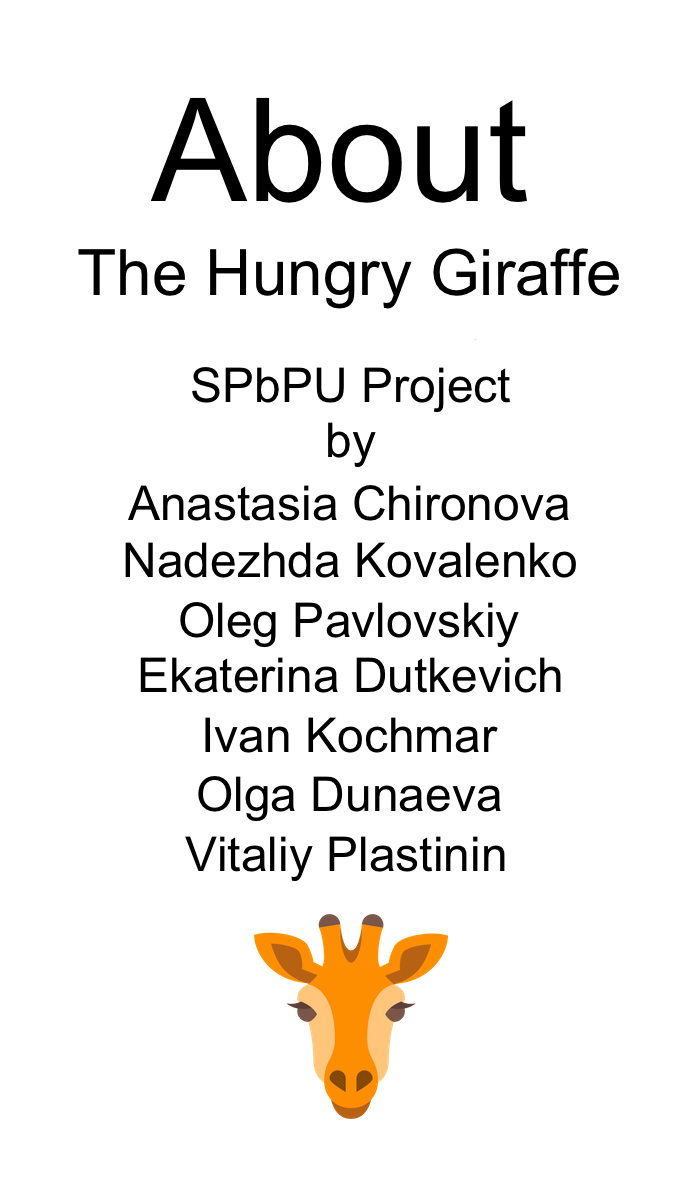
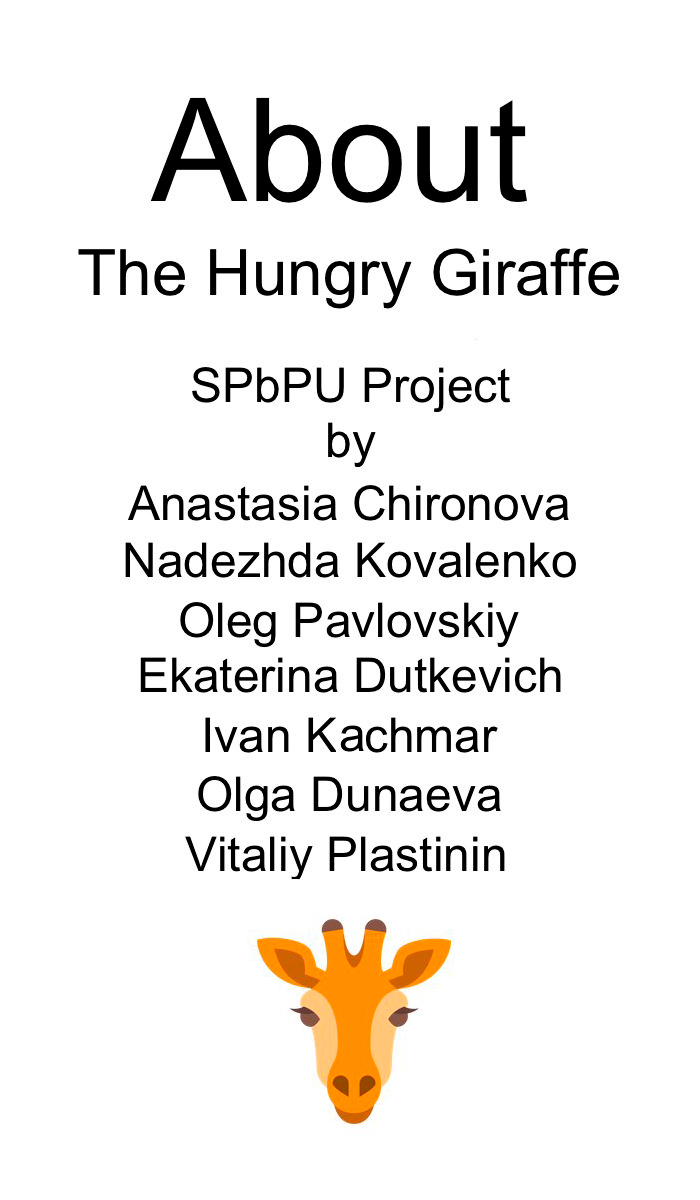
fix fixed surname, new surname is 'Kachmar' fixed joystick in swipe format fixed multiswipe fixed incorrect head display in stone

Changed region(s): [[0.36, 0.74, 0.66, 0.9558], [0.48, 0.5858, 0.51, 0.6475]]

diff --git a/core/src/com/ipmm/GameScreen.kt b/core/src/com/ipmm/GameScreen.kt
@@ -365,8 +365,6 @@ class GameScreen(internal val game: MainActivity, internal val level : Int, inte
         if ((x <0)||(y <0)||(x > m-1)||(y > n-1) || (x + 1 <0)||(y + 1 <0)||(x + 1> m-1)||(y+1 > n-1) )
             state = State.LOSE
 
-
-
         if (state != State.LOSE){
             when(map[x][y]){
                 BLOCK -> {
@@ -391,7 +389,7 @@ class GameScreen(internal val game: MainActivity, internal val level : Int, inte
                 }
             }
 
-            if (!isHEAD(map[x][y])){
+            if (!isHEAD(map[x][y]) && state != State.LOSE){
                 if ((x > 0)&&isHEAD(map[x - 1][y])){
                     map[x][y] = HEAD_E
                     if ((x-1 == startX)&&(y == startY)){
@@ -549,7 +547,7 @@ class GameScreen(internal val game: MainActivity, internal val level : Int, inte
      */
     fun control(){ //написана отдельная функция для управления, чтобы кнопка реагировала даже в случае, когда пользователь не отпускает палец
 
-        val swapSize = 50
+        val swapSize = 30
 
         if(swap) {
             if (Gdx.input.isTouched() && Gdx.input.getDeltaX() > swapSize) {
@@ -573,7 +571,7 @@ class GameScreen(internal val game: MainActivity, internal val level : Int, inte
             val touchPos = Vector3()
             touchPos.set(Gdx.input.getX(0).toFloat(), Gdx.input.getY(0).toFloat(), 0f)
             camera.unproject(touchPos) //важная функция для того, чтобы подгонять координаты приложения в разных телефонах
-            if(state == State.RUNNING){
+            if(state == State.RUNNING && !swap){
                 if (buttonsRect.get(Button.UPSTICKER.ordinal).contains(touchPos.x, touchPos.y) && game.direction != DOWN) {
                     speed_y = 1
                     speed_x = 0
